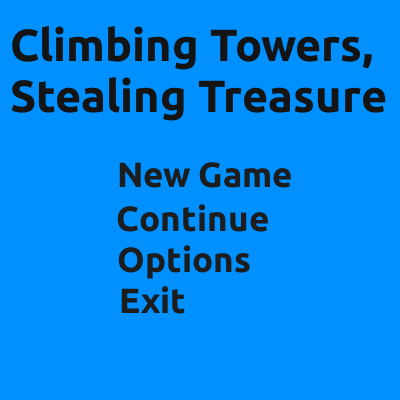
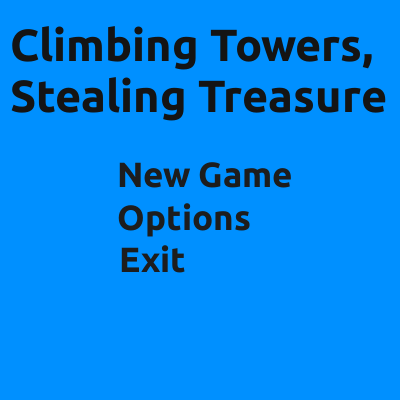
Remove options for saving and resuming.

Changed region(s): [[0.27, 0.51, 0.69, 0.78]]

diff --git a/core/src/za/co/jethromuller/ctst/menus/MainMenu.java b/core/src/za/co/jethromuller/ctst/menus/MainMenu.java
@@ -8,7 +8,7 @@ public class MainMenu extends Menu {
 
     public MainMenu(CtstGame game) {
         super(game, null, "main_menu.png");
-        yCoords = new int[] {224, 180, 140, 98};
+        yCoords = new int[] {224, 180, 140};
         xCoord = 104;
 
         game.musicController.startMenuMusic();
@@ -22,12 +22,9 @@ public class MainMenu extends Menu {
                 game.setScreen(level1);
                 break;
             case 1:
-                game.setScreen(new SaveSelect(game, this));
-                break;
-            case 2:
                 game.setScreen(new OptionsMenu(game));
                 break;
-            case 3:
+            case 2:
                 Gdx.app.exit();
                 break;
         }
